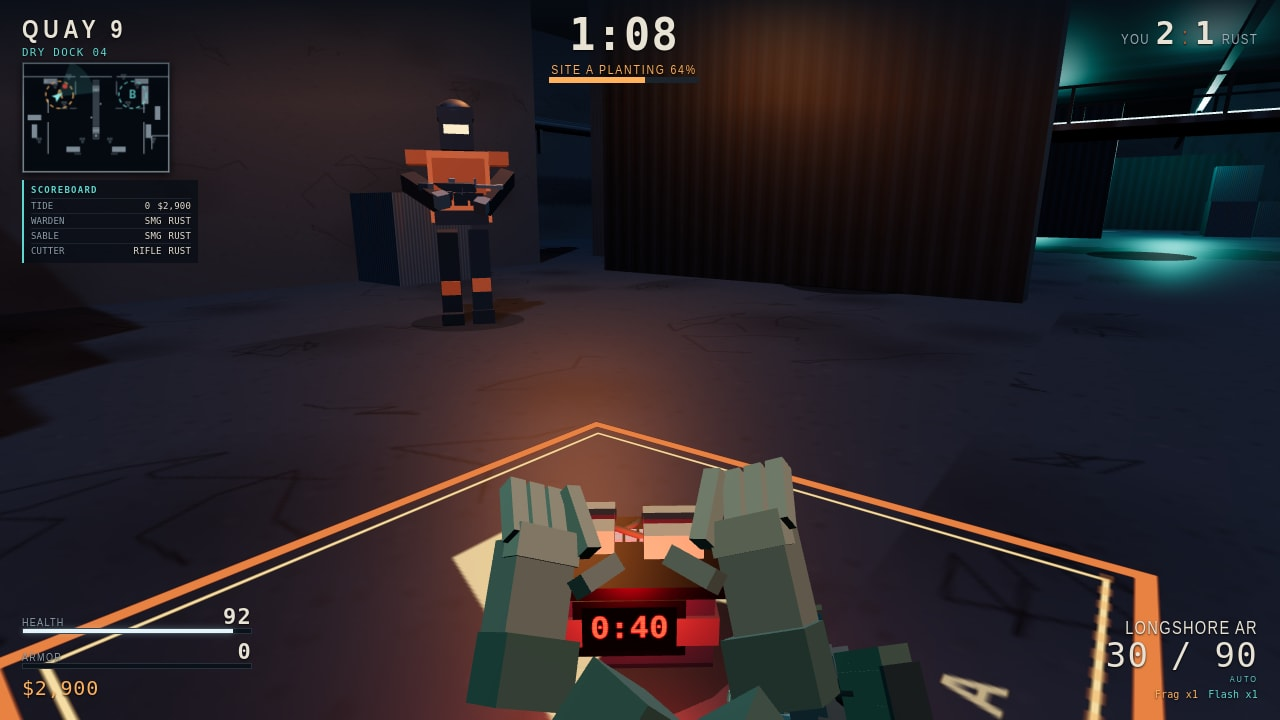
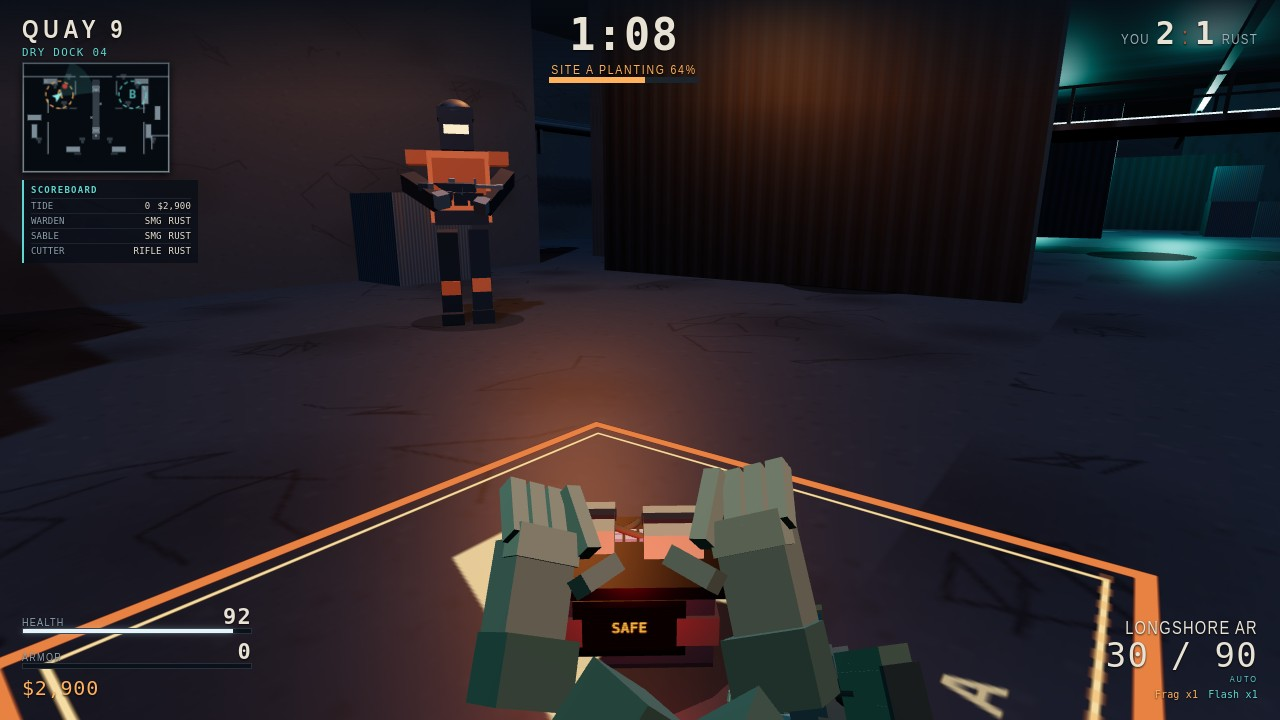
fix: charge face reads SAFE until the plant completes, no fuse while planting

Changed region(s): [[0.4375, 0.7028, 0.5625, 1.0], [0.4062, 0.9778, 0.4375, 1.0]]

diff --git a/game/src/rounds.js b/game/src/rounds.js
@@ -22,22 +22,31 @@ export function createRounds(state, scene, map, player, bots, weapon, hud, audio
   const displayTexture = new THREE.CanvasTexture(displayCanvas);
   displayTexture.colorSpace = THREE.SRGBColorSpace;
   let displayFuse = -1;
-  function paintDisplay(seconds) {
-    const whole = Math.max(0, Math.ceil(seconds));
-    if (whole === displayFuse) return;
-    displayFuse = whole;
+  function face(color, label, size) {
     displayCtx.fillStyle = '#170303';
     displayCtx.fillRect(0, 0, 256, 128);
-    displayCtx.fillStyle = '#ff3a2c';
-    displayCtx.font = 'bold 88px ui-monospace, Menlo, Consolas, monospace';
+    displayCtx.fillStyle = color;
+    displayCtx.font = `bold ${size}px ui-monospace, Menlo, Consolas, monospace`;
     displayCtx.textAlign = 'center';
     displayCtx.textBaseline = 'middle';
-    displayCtx.fillText(`0:${String(whole).padStart(2, '0')}`, 128, 66);
+    displayCtx.fillText(label, 128, 64);
     displayCtx.fillStyle = 'rgba(0, 0, 0, 0.3)';
     for (let y = 0; y < 128; y += 6) displayCtx.fillRect(0, y, 256, 2);
     displayTexture.needsUpdate = true;
   }
-  paintDisplay(40);
+  // Idle face: the charge is carried or being planted, so no fuse is running.
+  function paintIdle() {
+    displayFuse = -1;
+    face('#c8842a', 'SAFE', 40);
+    screenLight.intensity = 0.35;
+  }
+  function paintDisplay(seconds) {
+    const whole = Math.max(0, Math.ceil(seconds));
+    if (whole === displayFuse) return;
+    displayFuse = whole;
+    face('#ff3a2c', `0:${String(whole).padStart(2, '0')}`, 88);
+    screenLight.intensity = 1.15;
+  }
   const screenBezel = new THREE.Mesh(new THREE.BoxGeometry(0.25, 0.14, 0.016), bezelMat);
   screenBezel.position.set(0, 0.11, 0.141);
   bomb.add(screenBezel);
@@ -47,6 +56,7 @@ export function createRounds(state, scene, map, player, bots, weapon, hud, audio
   const screenLight = new THREE.PointLight(0xff2a18, 1.15, 2.4, 2);
   screenLight.position.set(0, 0.2, 0.34);
   bomb.add(screenLight);
+  paintIdle();
   const keyMat = new THREE.MeshStandardMaterial({ color: 0x8a97a3, roughness: 0.5, metalness: 0.4 });
   for (let r = 0; r < 2; r++) {
     for (let c = 0; c < 3; c++) {
@@ -114,6 +124,7 @@ export function createRounds(state, scene, map, player, bots, weapon, hud, audio
     bomb.visible = false;
     ring.visible = false;
     ring.scale.setScalar(0.1);
+    paintIdle();
   }
 
   function setBombYaw(yaw) {
@@ -125,7 +136,8 @@ export function createRounds(state, scene, map, player, bots, weapon, hud, audio
     bomb.visible = true;
     state.bomb.x = x;
     state.bomb.z = z;
-    paintDisplay(state.bomb.fuse || ROUND.fuse);
+    if (state.bomb.active) paintDisplay(state.bomb.fuse);
+    else paintIdle();
   }
 
   function startMatch() {

diff --git a/game/src/input.js b/game/src/input.js
@@ -39,8 +39,7 @@ export function createInput(state, canvas, onLockLost) {
       const result = canvas.requestPointerLock();
       if (result && typeof result.catch === 'function') result.catch(() => {});
     } catch (error) {
-      // A browser that refuses pointer lock still leaves the game playable by
-      // keyboard; the pause overlay explains the click-to-resume path.
+      // Keyboard still plays when pointer lock is refused.
     }
   }
   function unlock() {
@@ -50,7 +49,6 @@ export function createInput(state, canvas, onLockLost) {
   }
   function onLockChange() {
     locked = document.pointerLockElement === canvas;
-    // The buy menu is a pointer UI: losing lock there is expected, not a pause.
     const playable = state.mode === 'live' || state.mode === 'planted';
     if (!locked && state.started && !state.paused && !state.shot && playable) {
       state.paused = true;
@@ -60,7 +58,6 @@ export function createInput(state, canvas, onLockLost) {
   function onMouseDown(event) {
     if (event.button !== 0) return;
     if (!locked) {
-      // Any open overlay owns the pointer: cards and buttons must stay clickable.
       if (state.overlay) return;
       lock();
       return;
